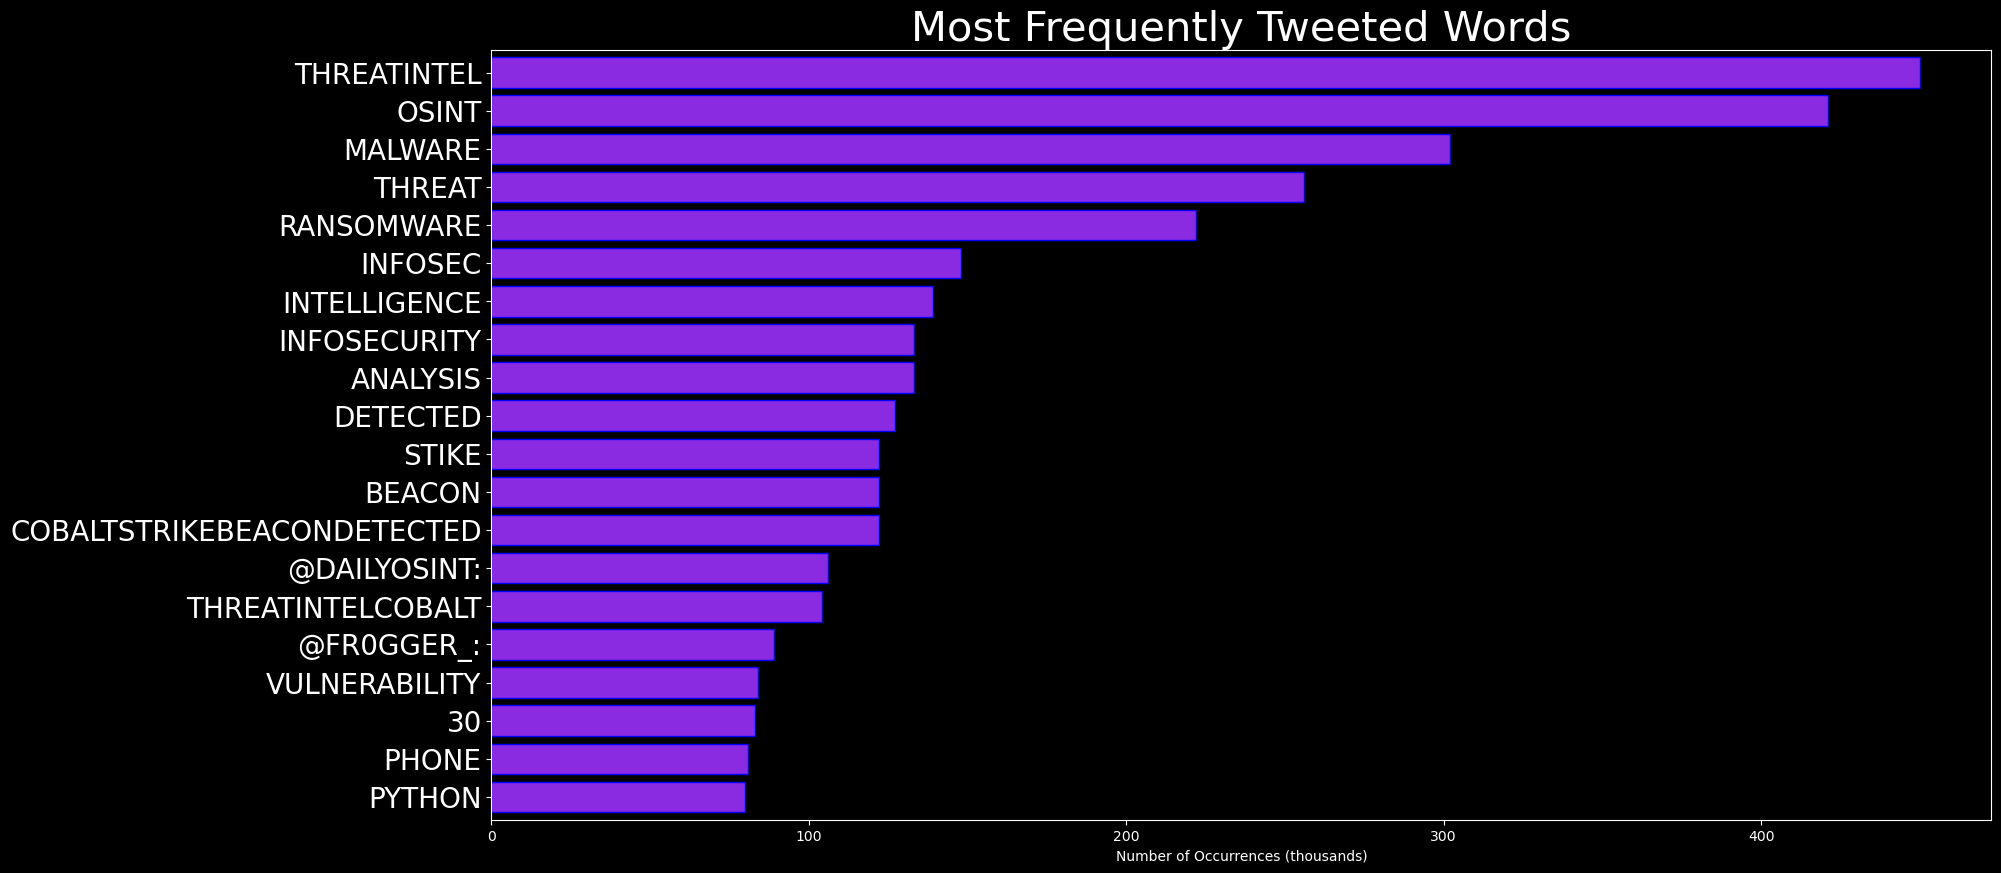
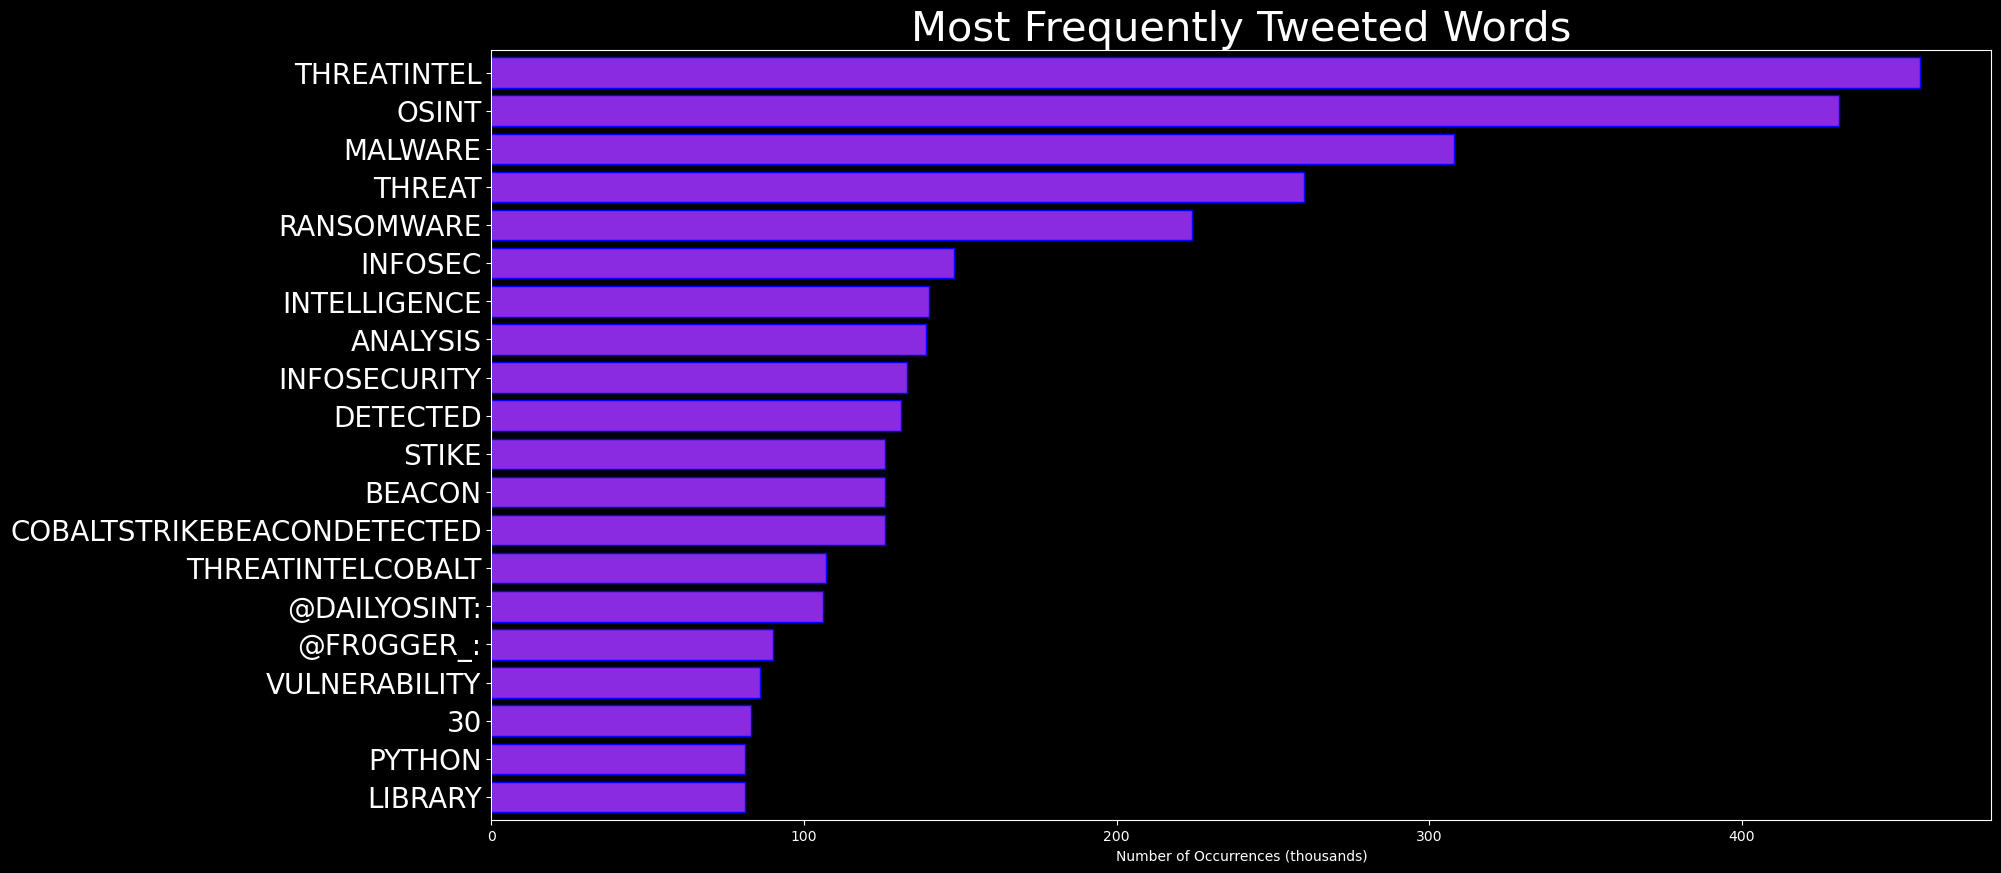
Next increment

diff --git a/darkwire/assets/threatintel/tweet3.html b/darkwire/assets/threatintel/tweet3.html
@@ -3,7 +3,9 @@
 			related tweet</i><br></br>  
 		<div id="quote"><center>
 <b style = "font-size:140%;color:silver"> 
-			RT @sisoma2: Latest blogpost from @symantec @threatintel were we uncover Graphiron a new infostealer with similarities to Elephant used by…
+			RT @DailyOsint: Do you have someone's username and need to investigate it?
+
+This #tool allows you to check the username on about 350 websit…
 </b>
 </center>
 </div>

diff --git a/darkwire/assets/threatintel/tweet1.html b/darkwire/assets/threatintel/tweet1.html
@@ -3,9 +3,7 @@
 			related tweet</i><br></br>  
 		<div id="quote"><center>
 <b style = "font-size:140%;color:silver"> 
-			Is The Public Cloud "Possibly"
-Now More Secure and
-Resilience Than On- #infosec #infosecurity #cybersecurity… https://t.co/d6rJUzdBZM
+			Exploiting API with AuthToken #infosec #infosecurity #cybersecurity #threatintel #threatintelligence #hacking… https://t.co/6eZBuxfavg
 </b>
 </center>
 </div>

diff --git a/darkwire/assets/threatintel/tweet2.html b/darkwire/assets/threatintel/tweet2.html
@@ -3,7 +3,7 @@
 			related tweet</i><br></br>  
 		<div id="quote"><center>
 <b style = "font-size:140%;color:silver"> 
-			RT @Tophs: Don't miss this! #threatintel #malwareintel #Ransomware https://t.co/wqSPkaTY9a
+			#ThreatProtection #HeadCrab Malware is making the rounds, read more: https://t.co/2whq1flpMq #Cybercrime #Cybersecurity #threatintel
 </b>
 </center>
 </div>

diff --git a/darkwire/assets/threatintel/updatedDate.html b/darkwire/assets/threatintel/updatedDate.html
@@ -1,1 +1,1 @@
-<p style="color: #FFFFFF; font-size:12px;"> Updated on 2023-02-13 </p>
+<p style="color: #FFFFFF; font-size:12px;"> Updated on 2023-02-14 </p>

diff --git a/darkwire/assets/threatintel/table1.html b/darkwire/assets/threatintel/table1.html
@@ -69,7 +69,7 @@
 					</td> 
 			  
 					  <td> 
-			2.05 
+			2.03 
 					</td> 
 			  
 					</tr>  

diff --git a/darkwire/README.md b/darkwire/README.md
@@ -1,20 +1,22 @@
 # DARKWIRE SOCIAL CYBER INSIGHTS 
-&#x1F34E; **TOPIC = "infosec"**
+&#x1F34E; **TOPIC = "threatintel"**
 
 ## AUTOMATED RESEARCH SUMMARY
   ![image](darkLogo.png)   
 
 |  Trending  |   Images | 
 :-------------------------:|:-------------------------:
-|  ![image](assets/infosec/imageFile1.jpg)     <img width=200/> | ![image](assets/infosec/imageFile2.jpg) <img width=200/> |   
+|  ![image](assets/threatintel/imageFile1.jpg)     <img width=200/> | ![image](assets/threatintel/imageFile2.jpg) <img width=200/> |   
  
  
-![image](assets/infosec/TWEETS.png)
+![image](assets/threatintel/TWEETS.png)
 <br></br>
-The most popular user is: **buitengebieden**  
+The most popular user is: **DailyOsint**  
  
 
-## Armadillo catching a ball.. 😊 https://t.co/ZOR7XNKXDG 
+## If you need a fast and effective port scanner,
+
+You can try #RustScan, which is able to scan all ports in 3 seconds… https://t.co/G6zZMOFiJN 
 
   
 
@@ -23,24 +25,24 @@ The most popular user is: **buitengebieden**
 
 ### TRENDING SHARED IMAGE
 
-![image](assets/infosec/twitterPostedImage.png)
+![image](assets/threatintel/twitterPostedImage.png)
 
 
 
 |                **Sample-Tweets**        |
 | :-------------: |
-| RT @JinibaBD: Chinese Tonto Team Hackers' Second Attempt to Target Cybersecurity Firm Group-IB Fails #cybercrime #Phishing #ransomware #cyb… |
-| Steganography — Data That Hidden Behind The Images.How Can You Detect The Hidden Data? [ #Tutorial ]… https://t.co/RykEAvAbHM |
-| RT @hackinarticles: Metasploit Framework Cheat Sheet@metasploit https://t.co/TwVzFbbZr4#infosec #cybersecurity #cybersecuritytips #pe… |
+| Exploiting API with AuthToken #infosec #infosecurity #cybersecurity #threatintel #threatintelligence #hacking… https://t.co/6eZBuxfavg |
+| RT @fr0gger_: ⚡MSTICpy is a powerful python library for threat intelligence and threat investigation! I created a new security artwork for… |
+| RT @best___tech: Forgot your password for your social network, google or any active account?  Send a message to us going to recovery.#hack… |
 
 ## RELATED METRICS<br>
 | Metric | Value |
 | ------------- | ------------- |
-| #1 Most tweeted to  | **hackinarticles** |
-| #2 Most tweeted to  | **0x0SojalSec** |
-| #3 Most tweeted to  | **0xor0ne** |
-| NewProfiles (less than 10 days) | 0.28%  |
-| Tweeters with < 10 followers  | 5.58%|
+| #1 Most tweeted to  | **DailyOsint** |
+| #2 Most tweeted to  | **fr0gger_** |
+| #3 Most tweeted to  | **threatintel** |
+| NewProfiles (less than 10 days) | 0.0%  |
+| Tweeters with < 10 followers  | 2.03%|
 | Tweeters with > 1000000 followers  | 0.0%  |
 
 
@@ -50,282 +52,30 @@ The most popular user is: **buitengebieden**
 
 | Popularity Rank  | Term |
 | ------------- | ------------- |
-| first  | **INFOSEC**  |
-| second  | **HACKING**  |
-| third  | **PHISHING** |
-| fourth  | **PENTESTING**  |
-| fifth  | **CYBERSECURITYTIPS**  |
+| first  | **THREATINTEL**  |
+| second  | **OSINT**  |
+| third  | **MALWARE** |
+| fourth  | **THREAT**  |
+| fifth  | **RANSOMWARE**  |
 
 
-## Twitter Bio Analysis![image](assets/infosec/BIO.png)
+## Twitter Bio Analysis![image](assets/threatintel/BIO.png)
 ### SENTIMENT ANALYSIS
-![image](assets/infosec/sentiment.png)
-VIEWS WERE : **SUBJECTIVE**  (23.08%) & **NEGATIVELY-SUBJECTIVE** (7.69%) **OBJECTIVE** (69.23%)
+![image](assets/threatintel/sentiment.png)
+VIEWS WERE : **SUBJECTIVE**  (0.0%) & **NEGATIVELY-SUBJECTIVE** (9.09%) **OBJECTIVE** (90.91%)
 
 ### TWEET SAMPLE 
 | Random value picked from array |
 | ------------- |
-|RT @TechNative: Combatting Growing Cyber Threats to Critical Infrastructure #cyberskills #infosec #cio #ciso #cso #CDO #MSPs #cybersecuri… |
+|RT @gleeda@infosec.exchangeAwesome work by jfslowik and team at huntress digging into a recent incident involving… https://t.co/LGgPAJnzlW |
 
 ### MOST RETWEETED 
 
-| The most retweeted user is: **buitengebieden**  |
+| The most retweeted user is: **DailyOsint**  |
 | ------------- |
-| Armadillo catching a ball.. 😊 https://t.co/ZOR7XNKXDG |
+| If you need a fast and effective port scanner,You can try #RustScan, which is able to scan all ports in 3 seconds… https://t.co/G6zZMOFiJN |
 
 # Potential Fake Accounts
- 
-# jakejaki7USER INFO
-![image](http://pbs.twimg.com/profile_images/1625194321224863744/3__nXO1u_normal.png)
- 
-`User ScreenName:` jakejaki7 
- 
-`User chosen Name:` jake jaki 
- 
-`Is the User Verified?:` False 
- 
-`User signup date?:` Mon Feb 13 18:04:55 +0000 2023 
- 
-`User Description?:`  
- 
-`Followers?: `0 
- 
-`Following?:` 2 
- 
-`User URL?:` None 
- 
-`Location:`  
- 
-`Number of tweets extracted`  : 1 
- 
-`Profile image:` http://pbs.twimg.com/profile_images/1625194321224863744/3__nXO1u_normal.png 
- 
-`Number of tweets excluding replies:` 1 
- 
-
- 
-
- 
-## User Top tweeted words 
- 
-**WINRAR** 1 , **KEYGEN** 1 , **–** 1 , **REVERSE** 1 , **ENGINEERING** 1 , **TUTORIAL** 1 , **HTTPS://TCO/SDHLQEYVBO** 1 , **INFOSEC** 1 , **BUGCROWD** 1 , **BUGBOUNTYTIPS…** 1 , **HTTPS://TCO/V31ELYBAHF** 1 , 
- 
-## What this user tweeted
- 
-WinRar Keygen – Reverse Engineering Tutorial https://t.co/SDHlqeyvBo #infosec #bugcrowd #bugbountytips… https://t.co/V31eLyBahf
- 
-# M_Tariq23USER INFO
-![image](http://pbs.twimg.com/profile_images/1622618463004164096/xIuPGoCF_normal.png)
- 
-`User ScreenName:` M_Tariq23 
- 
-`User chosen Name:` Muhammad Tariq 
- 
-`Is the User Verified?:` False 
- 
-`User signup date?:` Mon Feb 06 15:29:22 +0000 2023 
- 
-`User Description?:`  
- 
-`Followers?: `0 
- 
-`Following?:` 21 
- 
-`User URL?:` None 
- 
-`Location:`  
- 
-`Number of tweets extracted`  : 11 
- 
-`Profile image:` http://pbs.twimg.com/profile_images/1622618463004164096/xIuPGoCF_normal.png 
- 
-`Number of tweets excluding replies:` 11 
- 
-
- 
-
- 
-## User Top tweeted words 
- 
-**TECH** 3 , **@SOUTHASIAINDEX:** 2 , **AFTER** 2 , **@TECHDESTPAK:** 2 , **PAKISTAN** 2 , **ITS** 2 , **RT** 1 , **@HACKINARTICLES:** 1 , **BURPSUITE** 1 , **EXTENSIONS** 1 , **CHEAT** 1 , **SHEET** 1 , **@PORTSWIGGERRES** 1 , **HTTPS://TCO/BFZK0NQVZB** 1 , **INFOSEC** 1 , **CYBERSECURITY** 1 , **CYBERSECURITYTIPS…RT** 1 , **NORWAY:—** 1 , **NORWAY'S** 1 , **SOVEREIGN** 1 , 
- 
-## What this user tweeted
- 
-RT @hackinarticles: Burpsuite Extensions Cheat Sheet
-
-@PortSwiggerRes 
-
-https://t.co/bFZk0nqvZB
-
-#infosec #cybersecurity #cybersecuritytips…
- 
-# SanuSar33851601USER INFO
-![image](http://pbs.twimg.com/profile_images/1625173828099010560/dFZlKYSp_normal.png)
- 
-`User ScreenName:` SanuSar33851601 
- 
-`User chosen Name:` Sanu Sarkar 
- 
-`Is the User Verified?:` False 
- 
-`User signup date?:` Mon Feb 13 16:43:29 +0000 2023 
- 
-`User Description?:`  
- 
-`Followers?: `0 
- 
-`Following?:` 24 
- 
-`User URL?:` None 
- 
-`Location:`  
- 
-`Number of tweets extracted`  : 4 
- 
-`Profile image:` http://pbs.twimg.com/profile_images/1625173828099010560/dFZlKYSp_normal.png 
- 
-`Number of tweets excluding replies:` 5 
- 
-
- 
-
- 
-## User Top tweeted words 
- 
-**–** 6 , **FULL** 5 , **ACTIVATED** 5 , **DISCOUNT** 3 , **100%** 3 , **OFF** 3 , **PRO** 2 , **SOCINATOR** 1 , **DOMINATOR** 1 , **ENTERPRISE** 1 , **V100142** 1 , **HTTPS://TCO/YKRV7THTKJ** 1 , **INFOSEC…** 1 , **HTTPS://TCO/GYXHJ2W4GFTELEGRAM** 1 , **SENDER** 1 , **V8730** 1 , **TELEGRAM** 1 , **MARKETING** 1 , **HTTPS://TCO/RDWLWUY5RY…** 1 , **HTTPS://TCO/BVSI2VYNMOBURP** 1 , 
- 
-## What this user tweeted
- 
-Socinator Dominator Enterprise v1.0.0.142 Full Activated – Discount 100% OFF https://t.co/ykRv7THTKj #infosec… https://t.co/GyxHJ2W4gfTelegram Sender Pro v8.7.3.0 Full Activated – Telegram Marketing – Discount 100% OFF https://t.co/rdWlWuy5ry… https://t.co/bVsI2vyNmoBurp Suite Professional Edition v2023.1 x64 Full Activated   Burp Bounty Pro v2.6.1 Full Activated   Extensions – D… https://t.co/fkldhaqRtSAcunetix Premium v15.3.230123162 Full Activated – CyberSecurity Tools – Discount 100% OFF https://t.co/hVk9T1m0jd… https://t.co/JC5A5fAwvg
- 
-# CharmoniTakesUSER INFO
-![image](http://pbs.twimg.com/profile_images/1625165921126842368/zLqhUDS-_normal.jpg)
- 
-`User ScreenName:` CharmoniTakes 
- 
-`User chosen Name:` Charmoni Takis 
- 
-`Is the User Verified?:` False 
- 
-`User signup date?:` Mon Feb 13 15:52:28 +0000 2023 
- 
-`User Description?:` Epicurean Philosophy in ancient Athens 
- 
-`Followers?: `2 
- 
-`Following?:` 55 
- 
-`User URL?:` None 
- 
-`Location:`  
- 
-`Number of tweets extracted`  : 95 
- 
-`Profile image:` http://pbs.twimg.com/profile_images/1625165921126842368/zLqhUDS-_normal.jpg 
- 
-`Number of tweets excluding replies:` 95 
- 
-
- 
-
- 
-## User Top tweeted words 
- 
-**ΤΟ** 12 , **@YANISKATSELIS:** 12 , **LAMPONIO** 9 , **@THESTOICEMPEROR:** 9 , **Η** 7 , **ΜΕ** 6 , **NEW** 6 , **ΚΑΙ** 6 , **ΝΑ** 6 , **ΤΗΝ** 5 , **ΠΟΥ** 5 , **ΣΤΟ** 4 , **YEARS** 4 , **@NEILTYSON:** 4 , **@ELONMUSK** 4 , **ΔΕΝ** 4 , **ΘΑ** 4 , **Ο** 4 , **DRAGONSDENGR** 3 , **@SHIVON:** 3 , 
- 
-## What this user tweeted
- 
-RT @TheHackersNews: Don't wait for a cyber attack to hit!
-
-⚡ Learn about the new Identity Security requirements for cyber insurance in our…
- 
-# jesa_duranUSER INFO
-![image](http://pbs.twimg.com/profile_images/1623502403768311810/NSh_FwVM_normal.png)
- 
-`User ScreenName:` jesa_duran 
- 
-`User chosen Name:` Jesa Jean Duran 
- 
-`Is the User Verified?:` False 
- 
-`User signup date?:` Thu Feb 09 02:01:50 +0000 2023 
- 
-`User Description?:`  
- 
-`Followers?: `1 
- 
-`Following?:` 0 
- 
-`User URL?:` None 
- 
-`Location:`  
- 
-`Number of tweets extracted`  : 15 
- 
-`Profile image:` http://pbs.twimg.com/profile_images/1623502403768311810/NSh_FwVM_normal.png 
- 
-`Number of tweets excluding replies:` 15 
- 
-
- 
-
- 
-## User Top tweeted words 
- 
-**@CYBER_EVERY:** 15 , **SMALLBUSINESS** 5 , **CYBER** 5 , **👉** 5 , **⚠** 4 , **PROTECT** 3 , **⛔** 3 , **➡** 3 , **🛑** 3 , **CYBERSECURITY** 3 , **🚩** 2 , **ATTACKS** 2 , **RISKS** 2 , **SMALLBUSINESSOWNER** 2 , **…RT** 2 , **IT!** 2 , **NEED** 2 , **SMALLBUS…RT** 2 , **SMALL** 2 , **CERTIFICATE** 2 , 
- 
-## What this user tweeted
- 
-RT @cyber_every: ⚠ Cyber attacks have steadily increased! Know the risks and how deadly it is to #SmallBusinesses!
-
-Shocking Stats: https:…RT @cyber_every: 🚨 What is a deep fake video and how to spot It! Everything you need to know!
- ➡ https://t.co/PwKbu2eFZb
-
-#smallbusiness #…RT @cyber_every: ⛔ The importance of cybersecurity strategy to every small and medium businesses!! 👉 https://t.co/seGkhhmWns
-
-#smallbusines…RT @cyber_every: ⛔ What is a certificate authority and how important is it to your digital security? 
-➡ https://t.co/Xw9jL0JzRB
-
-#smallbus…RT @cyber_every: 🚩 HTTPS and HTTP. We encounter these acronyms everyday as we surf the Internet. But what are they and why should they matt…RT @cyber_every: ⚠ Know what a Rogue Certificate is, how dangerous it is and how you can  protect your company against it! ➡ https://t.co…
- 
-# onepiec27878962USER INFO
-![image](http://pbs.twimg.com/profile_images/1625101139665354754/bkcJ6iVh_normal.png)
- 
-`User ScreenName:` onepiec27878962 
- 
-`User chosen Name:` onepiece naruto 
- 
-`Is the User Verified?:` False 
- 
-`User signup date?:` Mon Feb 13 11:54:39 +0000 2023 
- 
-`User Description?:`  
- 
-`Followers?: `0 
- 
-`Following?:` 1 
- 
-`User URL?:` None 
- 
-`Location:`  
- 
-`Number of tweets extracted`  : 1 
- 
-`Profile image:` http://pbs.twimg.com/profile_images/1625101139665354754/bkcJ6iVh_normal.png 
- 
-`Number of tweets excluding replies:` 1 
- 
-
- 
-
- 
-## User Top tweeted words 
- 
-**SIMPLE** 1 , **FACEBOOK** 1 , **AUTO** 1 , **POSTER** 1 , **V19918** 1 , **FULL** 1 , **ACTIVATED** 1 , **–** 1 , **DISCOUNT** 1 , **100%** 1 , **OFF** 1 , **HTTPS://TCO/SR0JTVEVXW** 1 , **INFOSEC** 1 , **BUGCROWD…** 1 , **HTTPS://TCO/LZRKSUEHIT** 1 , 
- 
-## What this user tweeted
- 
-Simple Facebook Auto Poster v19.9.1.8 Full Activated – Discount 100% OFF https://t.co/sr0jtvevxw #infosec #bugcrowd… https://t.co/lzrksUeHit
  
 
 <b> This report is AUTOMATED and not hand crafted, it is designed for pulling metrics on a given keyword or hashtag and performs a series of reporting and analysis.</b>  
